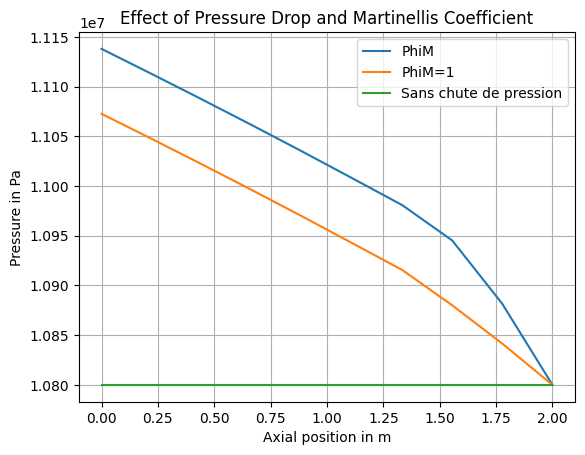
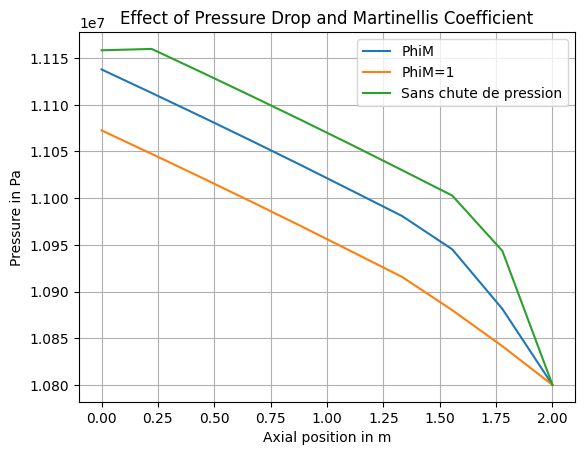
Mise en forme

diff --git a/Version5_ev3727/miseenforme.py b/Version5_ev3727/miseenforme.py
@@ -13,6 +13,7 @@ raw_data_0 = """PCOOL:   10800000.0       10800000.0       10800000.0       1080
  TSAT:   589.856201       589.856201       589.856201       589.856201       589.856201       589.856201       589.856201       589.856201       589.856201       589.856201    
  MUT:  -7.35066711E-15   9.18340949E-41  -7.35066711E-15   9.18340949E-41   0.00000000       0.00000000       0.00000000       0.00000000       0.00000000       0.00000000    
 """
+
 #sans correction sur PHIL0
 raw_data_1 = """
 PCOOL:   11072582.0       11047426.0       11021899.0       10995958.0       10969557.0       10942641.0       10915615.0       10880015.0       10841477.0       10800000.0    
@@ -51,9 +52,17 @@ def extraire(var_name, line_nb, data_name):
 PCOOLm=[]
 PCOOL1=[]
 PCOOL0=[]
+DCOOL0=[]
 extraire(PCOOLm, 0, raw_data_m)
 extraire(PCOOL1, 0, raw_data_1)
 extraire(PCOOL0, 0, raw_data_0)
+extraire(DCOOL0, 2, raw_data_0)
+Prho0=[0 for i in range(len(PCOOL0))]
+Prho0[-1]=PCOOL0[-1]
+Grad=0
+for i in range(2,1+len(PCOOL0)):
+    Grad +=0.22*DCOOL0[-i]*9.81
+    Prho0[-i]=(PCOOL0[i-1]+Grad)
 """extraire(VCOOL, 1)
 extraire(DCOOL, 2)
 extraire(TCOOL, 3)
@@ -66,7 +75,7 @@ Zaxis=np.linspace(0,2,len(PCOOLm))
 fig, ax = plt.subplots()
 ax.plot(Zaxis,PCOOLm, label='PhiM')
 ax.plot(Zaxis,PCOOL1, label='PhiM=1')
-ax.plot(Zaxis,PCOOL0, label='Sans chute de pression')
+ax.plot(Zaxis,Prho0, label='Sans chute de pression')
 ax.set_xlabel("Axial position in m")
 ax.set_ylabel("Pressure in Pa")
 ax.set_title("Effect of Pressure Drop and Martinellis Coefficient")
